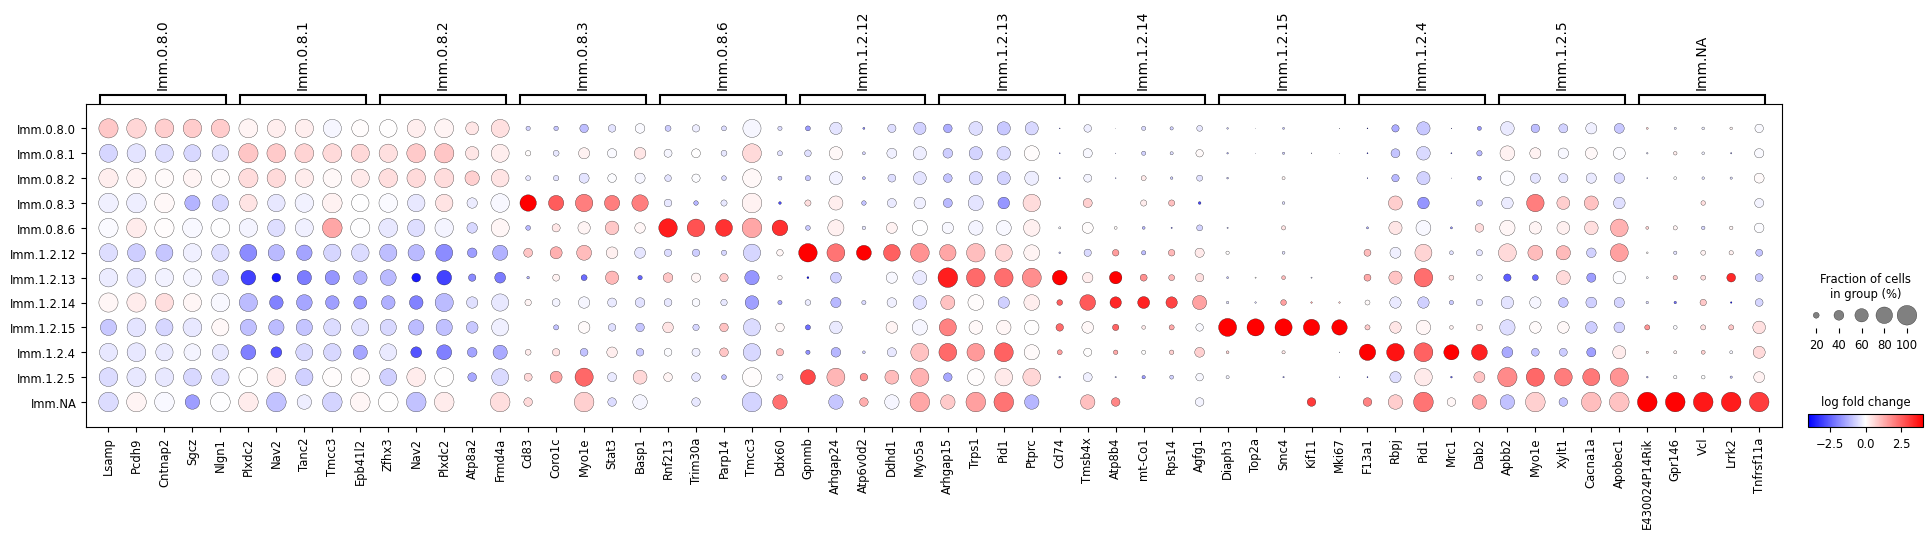
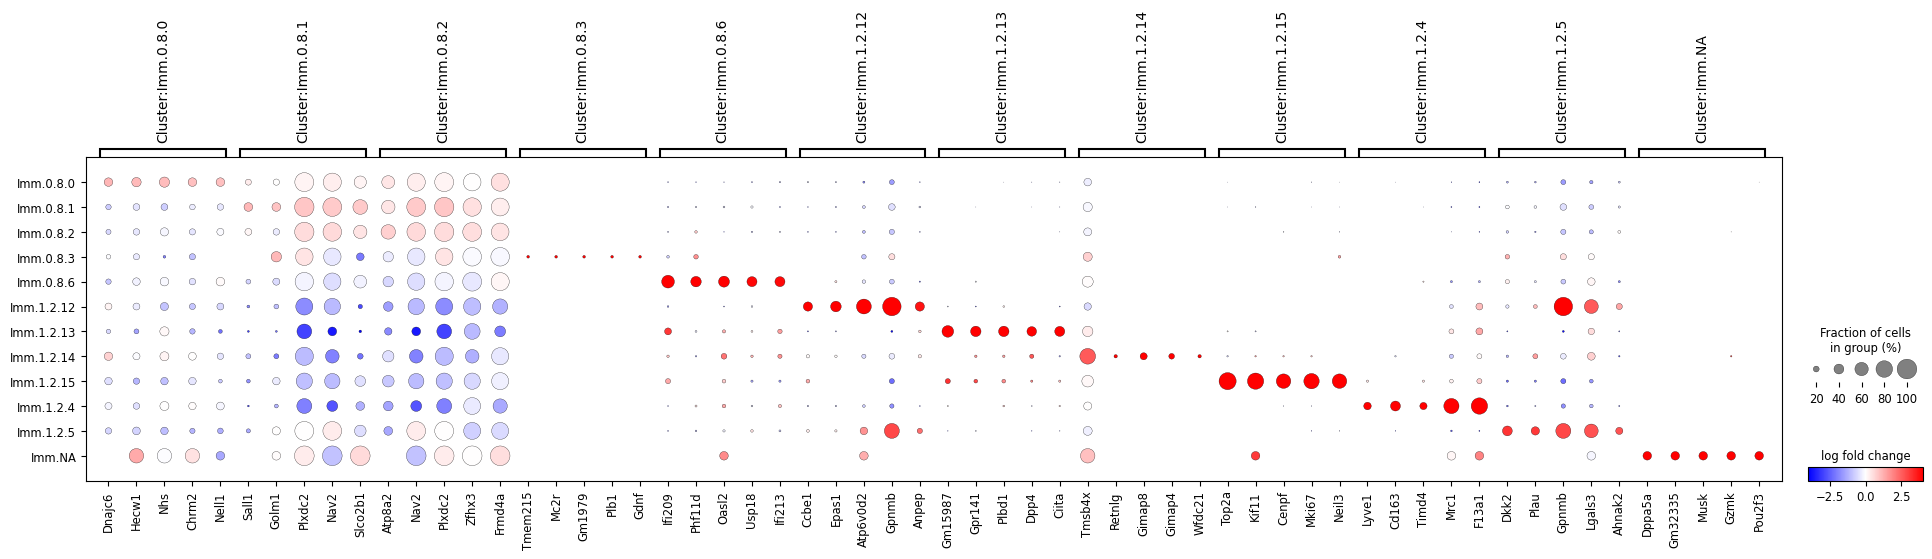
add dotplot and clustering plot fixes

diff --git a/src/a_immune.py b/src/a_immune.py
@@ -97,39 +97,39 @@ for cluster, df in cluster_dfs.items():
 #ordenar primeiro por logfoldchange por ordem decrescente, ver e dps quando for retirar os pvalue mais elevados ver quandos genes sobram que tenham um
 #logfoldchange inferior a 0, dependendo o numero vamos buscar os top n de genes com o logfoldchange superior da lista inicial de genes ordenados
 
-# print 
-for cluster, df in top_genes_cluster.items():
-    print(f"\nTop genes in {cluster}:")
-    print(df)
-
-
-# # append the genes to a full list in cluster order, every 5 genes is a cluster
-# top_genes = []
-
+# # print 
 # for cluster, df in top_genes_cluster.items():
-#     for gene in df.index:
-#         top_genes.append(gene)
+#     print(f"\nTop genes in {cluster}:")
+#     print(df)
+
+
+# Create a dictionary to hold top gene names for each cluster
+top_genes_names = {}
+
+# Iterate over the top genes per cluster
+for cluster, df in top_genes_cluster.items():
+    # Collect the top 5 gene names for this cluster
+    top_genes_names[cluster] = df.index.tolist()
 
 
 # print("\nTop genes per cluster:")
-# print(top_genes)
+# print(top_genes_names)
 
 
+## Visualize the DotPlots of the DGE's ###
 
-# ### Visualize the DotPlots of the DGE's ###
+# New directory 
+dotplots = "dotplots"
 
-# # New directory 
-# dotplots = "dotplots"
+# Delete the existing dir if exists
+if os.path.exists(dotplots):
+    shutil.rmtree(dotplots)
 
-# # Delete the existing dir if exists
-# if os.path.exists(dotplots):
-#     shutil.rmtree(dotplots)
+os.makedirs(dotplots)
 
-# os.makedirs(dotplots)
-
-## Creates the dir
-#if not os.path.exists(dotplots):
-#   os.makedirs(dotplots)
+# Creates the dir
+if not os.path.exists(dotplots):
+  os.makedirs(dotplots)
 
 
 # # DotPlot 1 representing the ranked genes by deafault method
@@ -150,23 +150,27 @@ for cluster, df in top_genes_cluster.items():
 #     return_fig=True
 # )
 
+# d1 = {'a': 1, 'b': 2, 'c': 3}
+# print(d1)
+# d1 = {f'{k}*': v for k, v in d1.items()}
+# print(d1)
 
-# # DotPlot 2 representing the ranked genes by top 5 filter
-# dotplot2 = sc.pl.rank_genes_groups_dotplot(
-#     adata,
-#     var_names=top_genes,
-#     groupby='leiden_fusion',
-#     key = 'rank_genes_groups_leiden_fusion',
-#     cmap='bwr',
-#     vmin=-4,
-#     vmax=4,
-#     values_to_plot='logfoldchanges',
-#     #min_logfoldchange=1,
-#     colorbar_title='log fold change',
-#     use_raw=False,
-#     dendrogram=False,
-#     return_fig=True
-# )
+# DotPlot 2 representing the ranked genes by top 5 filter
+dotplot1 = sc.pl.rank_genes_groups_dotplot(
+    adata,
+    var_names=top_genes_names,
+    groupby='leiden_fusion',
+    key = 'rank_genes_groups_leiden_fusion',
+    cmap='bwr',
+    vmin=-4,
+    vmax=4,
+    values_to_plot='logfoldchanges',
+    #min_logfoldchange=1,
+    colorbar_title='log fold change',
+    use_raw=False,
+    dendrogram=False,
+    return_fig=True
+)
 
 
 # output_path1 = os.path.join(dotplots, "dotplot_1.png")
@@ -175,9 +179,9 @@ for cluster, df in top_genes_cluster.items():
 
 
 
-# output_path2 = os.path.join(dotplots, "dotplot_2.png")
-# dotplot2.savefig(output_path2, bbox_inches="tight")
-# plt.close()  # Close the current figure to avoid overlap
+output_path1 = os.path.join(dotplots, "dotplot_1.png")
+dotplot1.savefig(output_path1, bbox_inches="tight")
+plt.close()  # Close the current figure to avoid overlap
 
 
 print("hello world")
